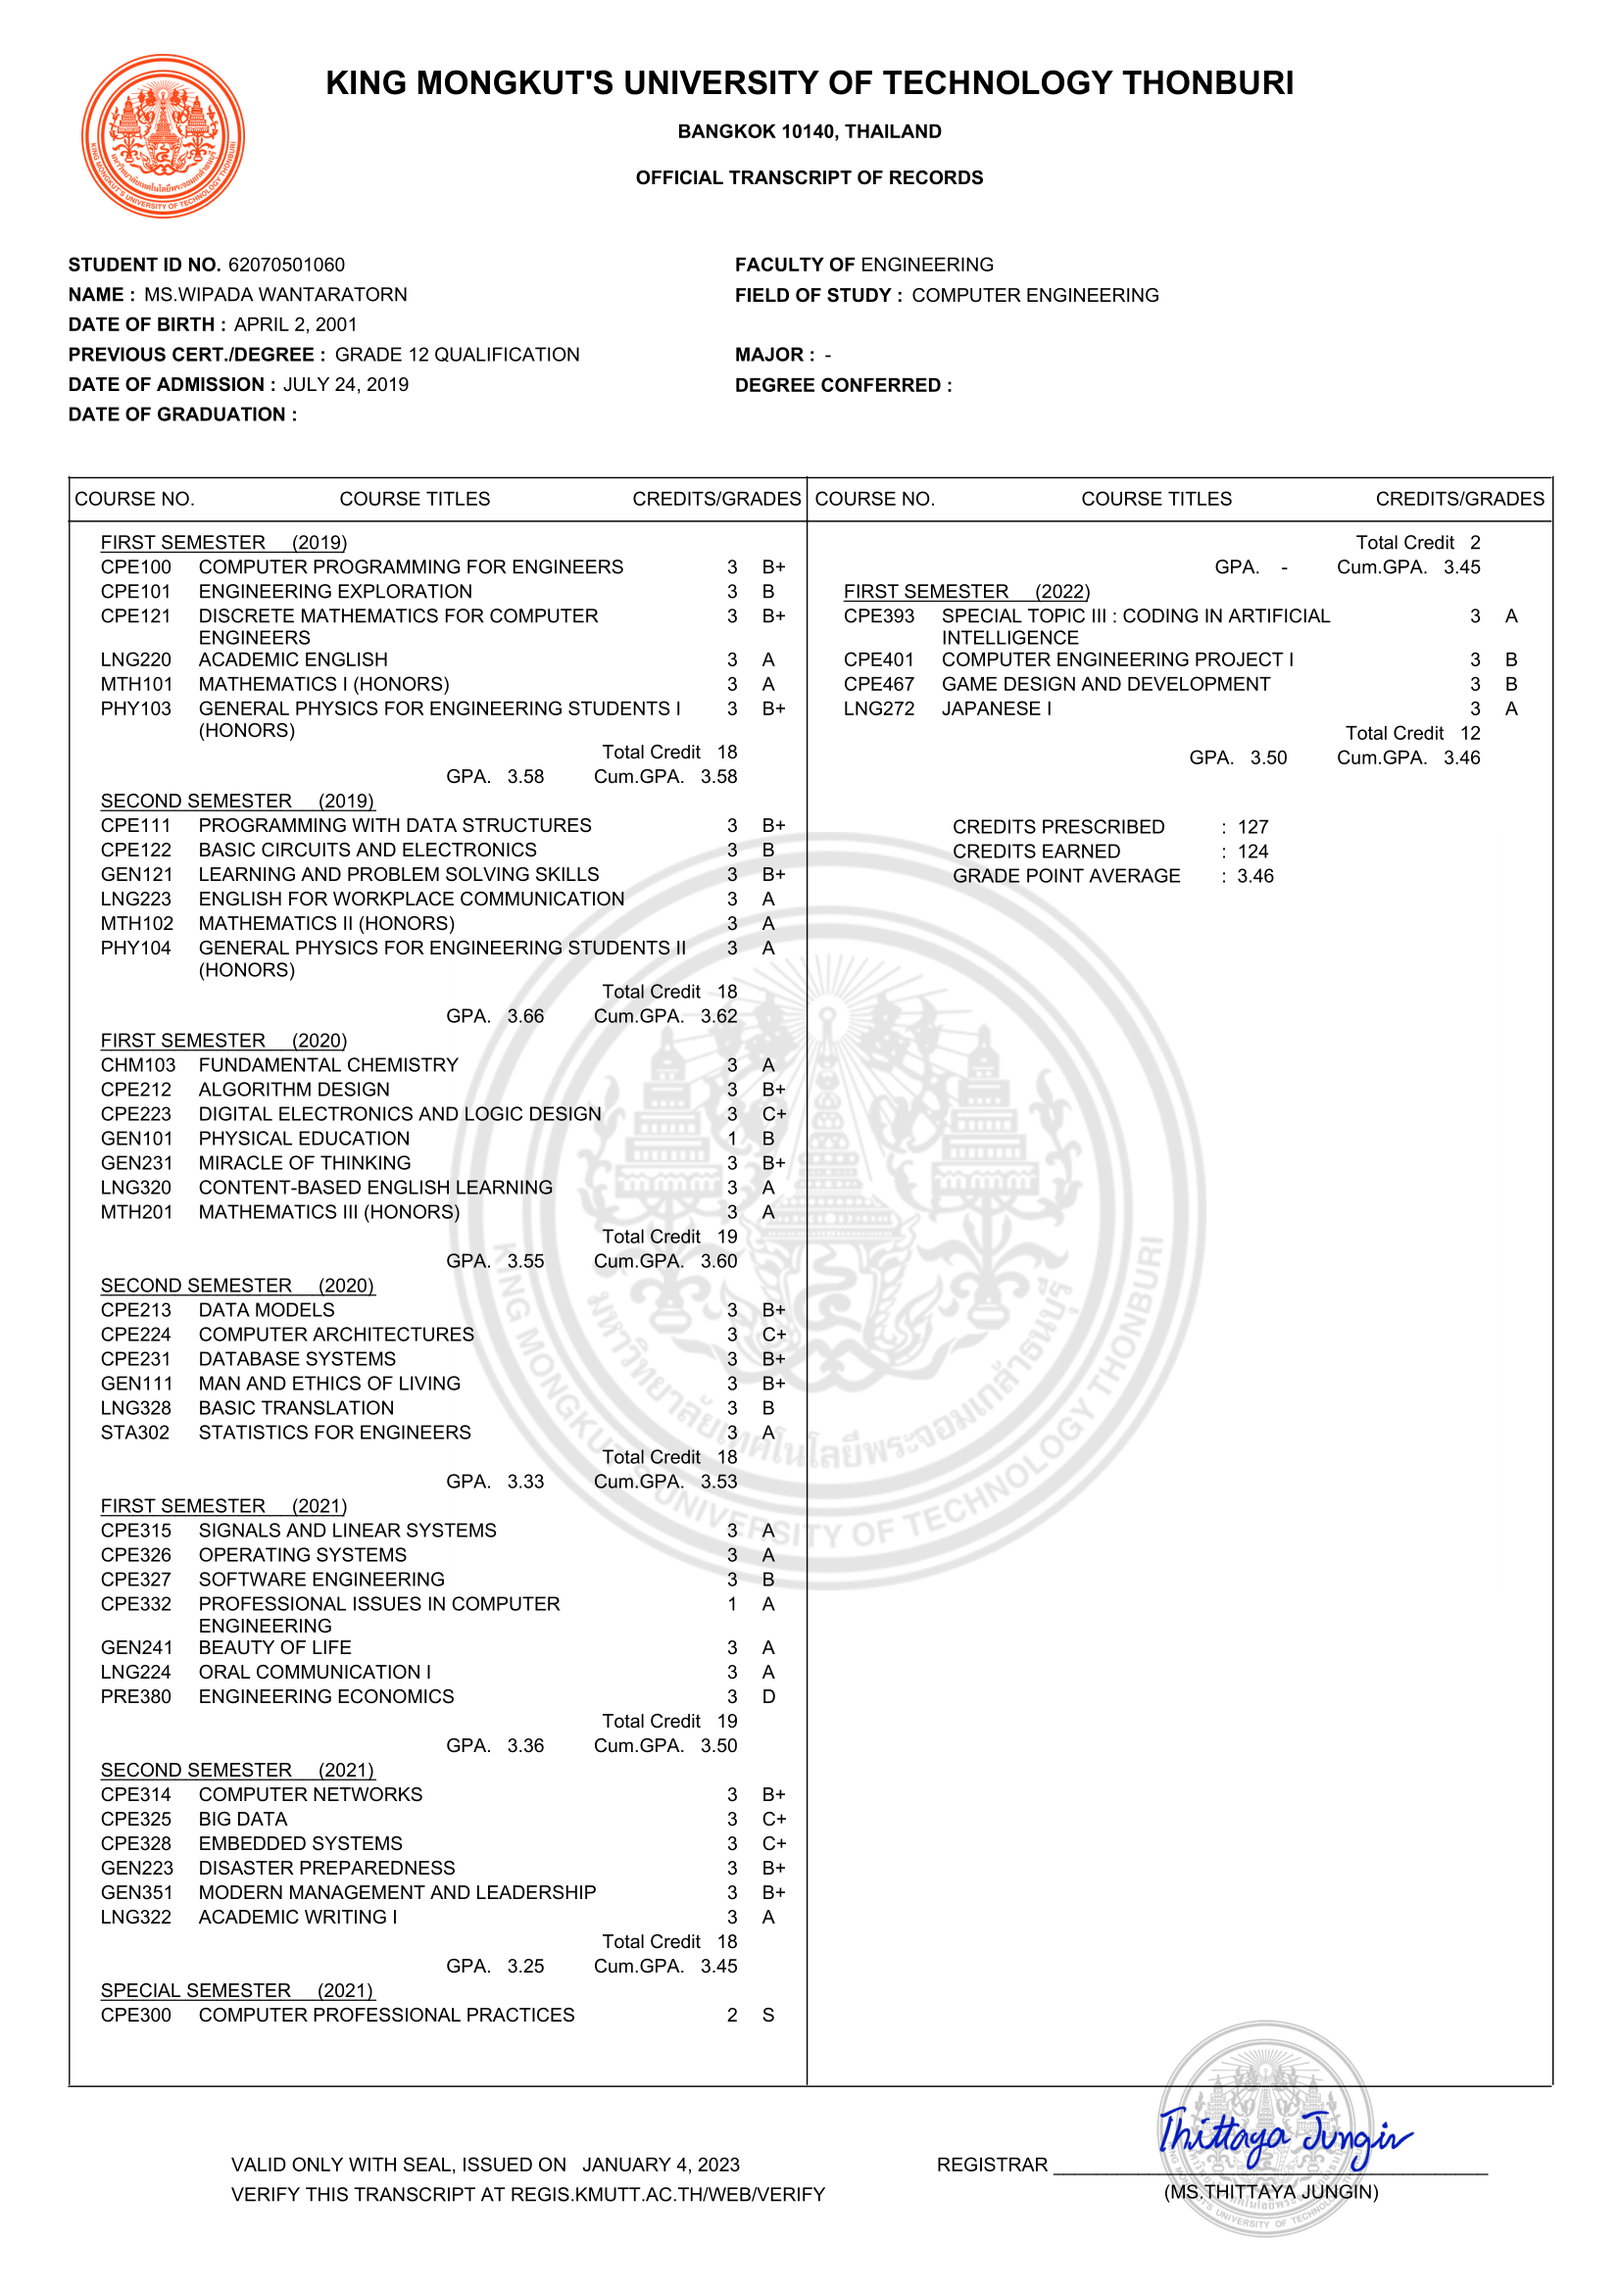
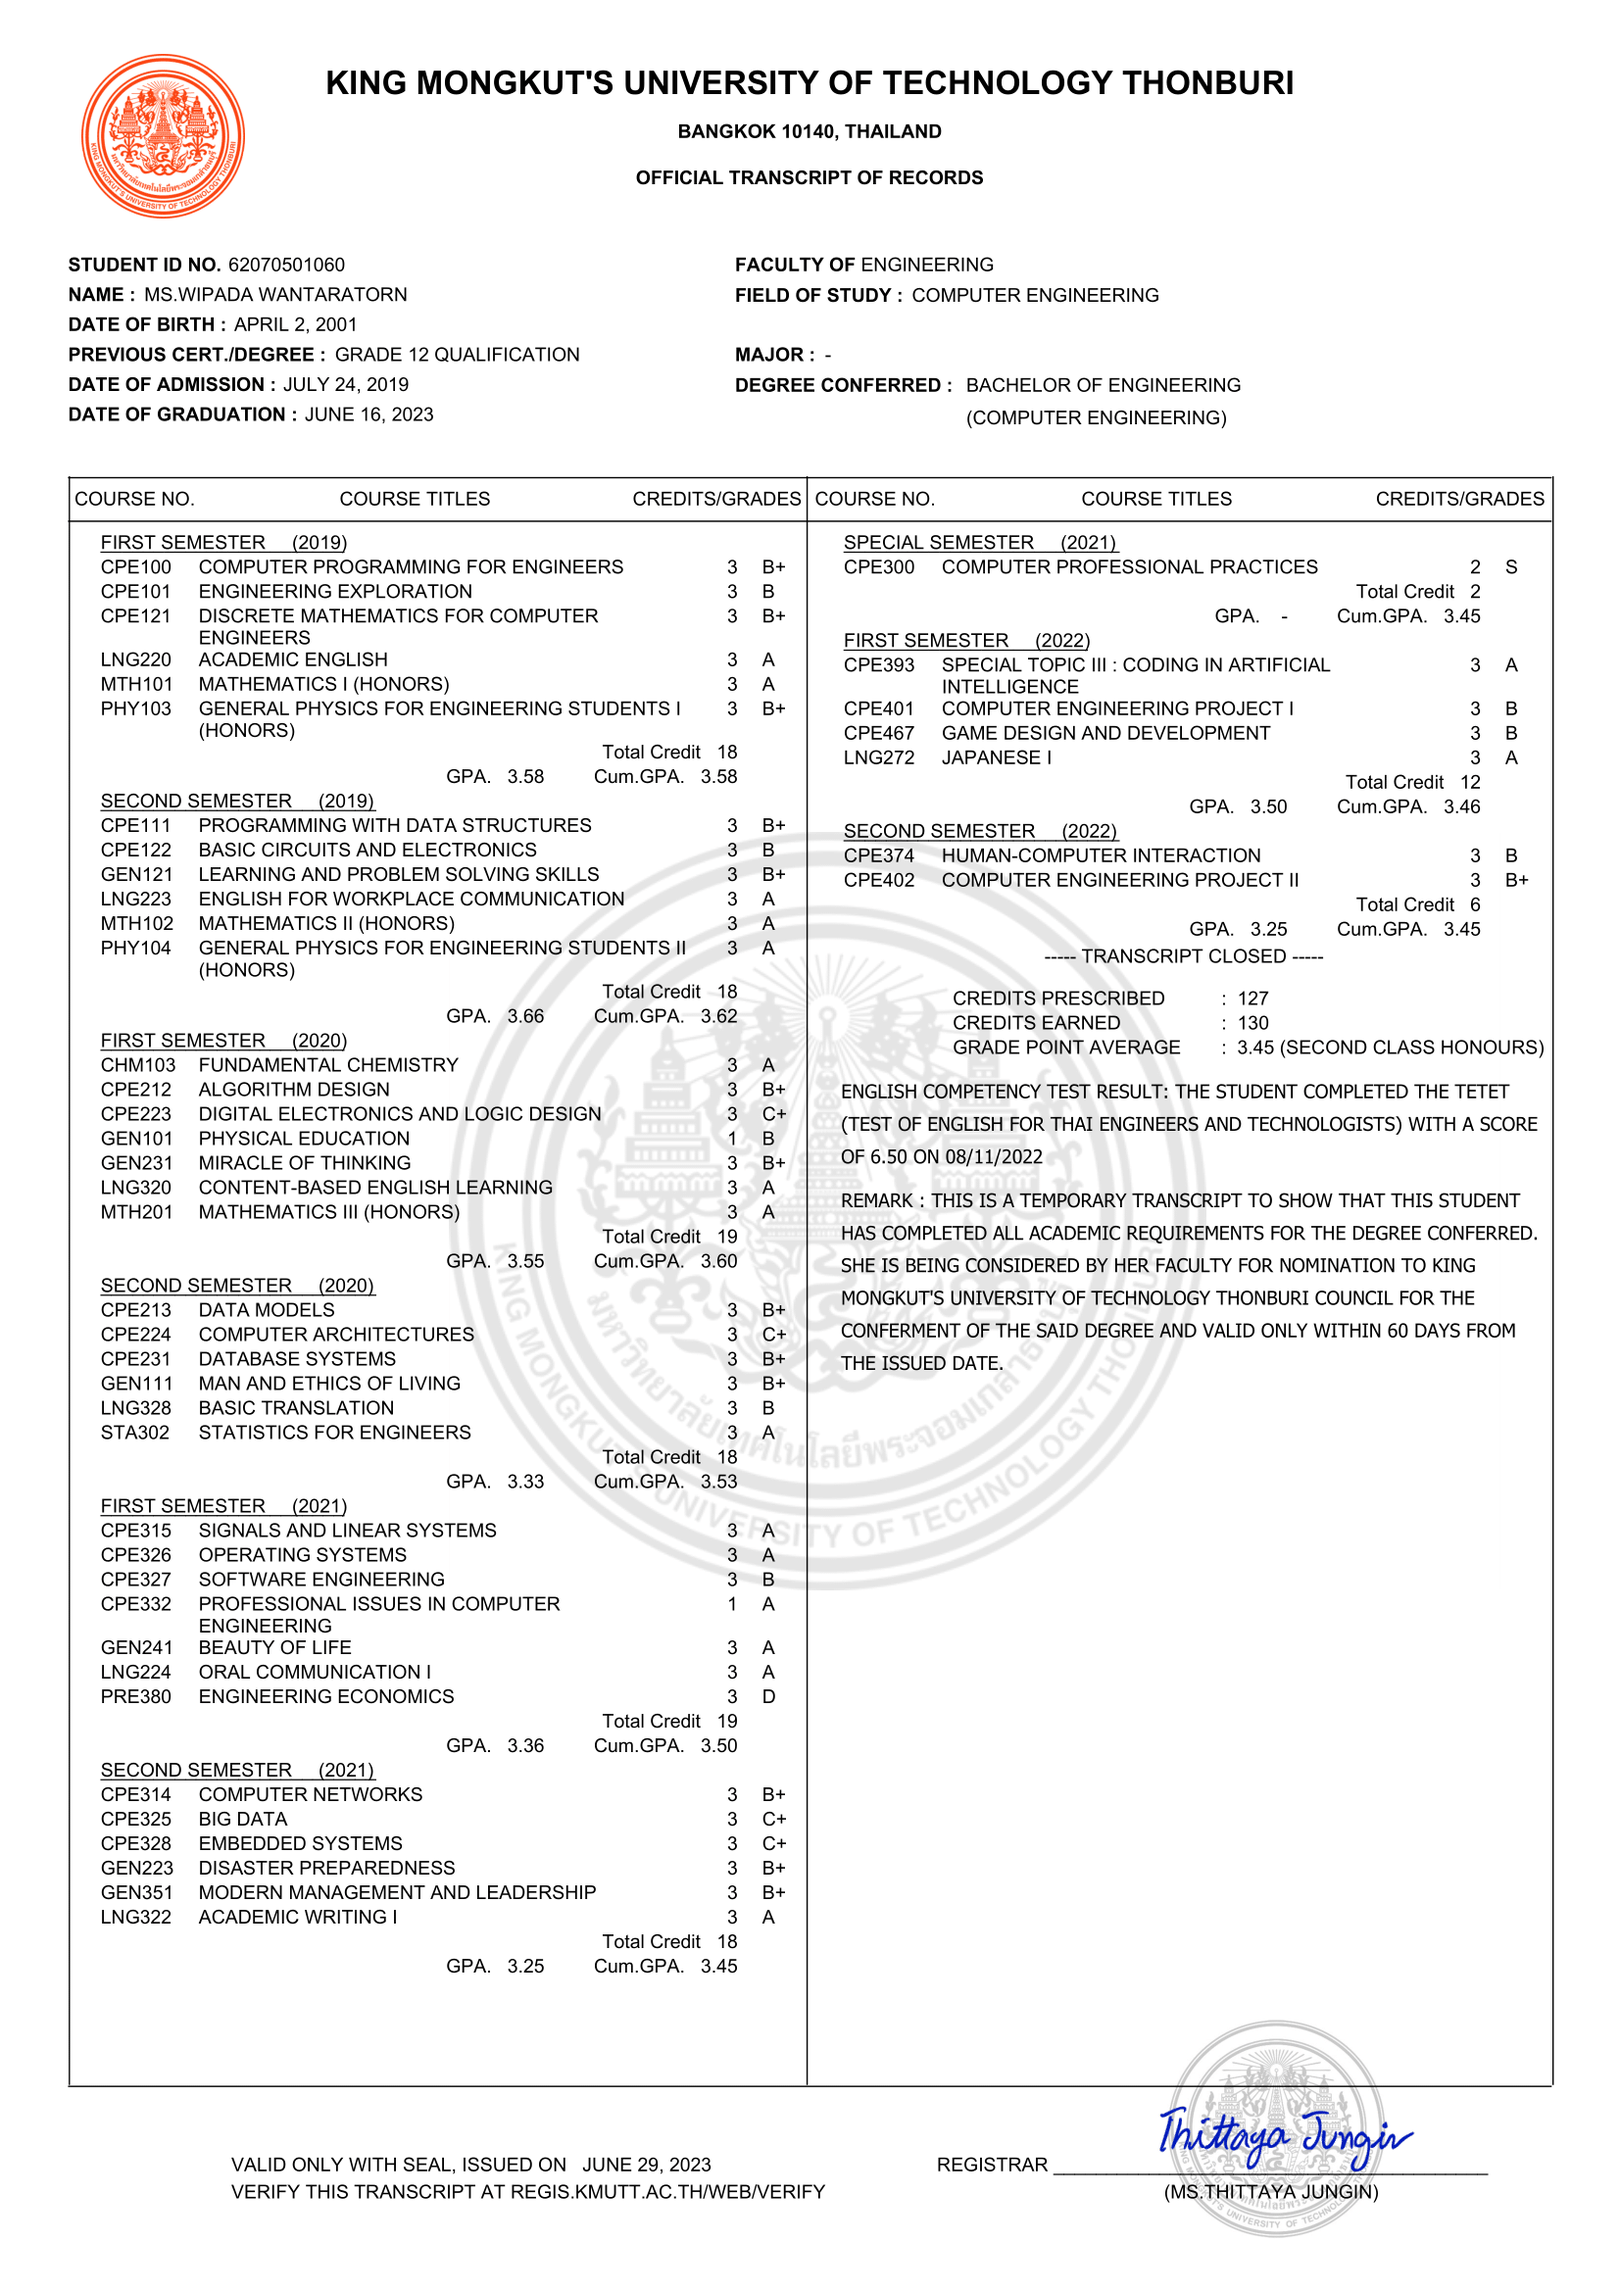
update transcript

diff --git a/index.html b/index.html
@@ -85,7 +85,7 @@
                                             <div class="col-sm-9 px-0">
                                                 <div class="row mx-0">
                                                     <input type="text" readonly class="form-control-plaintext col-sm-5" value="3.45" />
-                                                    <button class="btn btn-info col-sm-7 show-pic" value="transcript">Transcript (Incomplete)</button>
+                                                    <button class="btn btn-info col-sm-7 show-pic" value="transcript">Transcript (Temporary)</button>
                                                 </div>
                                             </div>
                                         </div>
